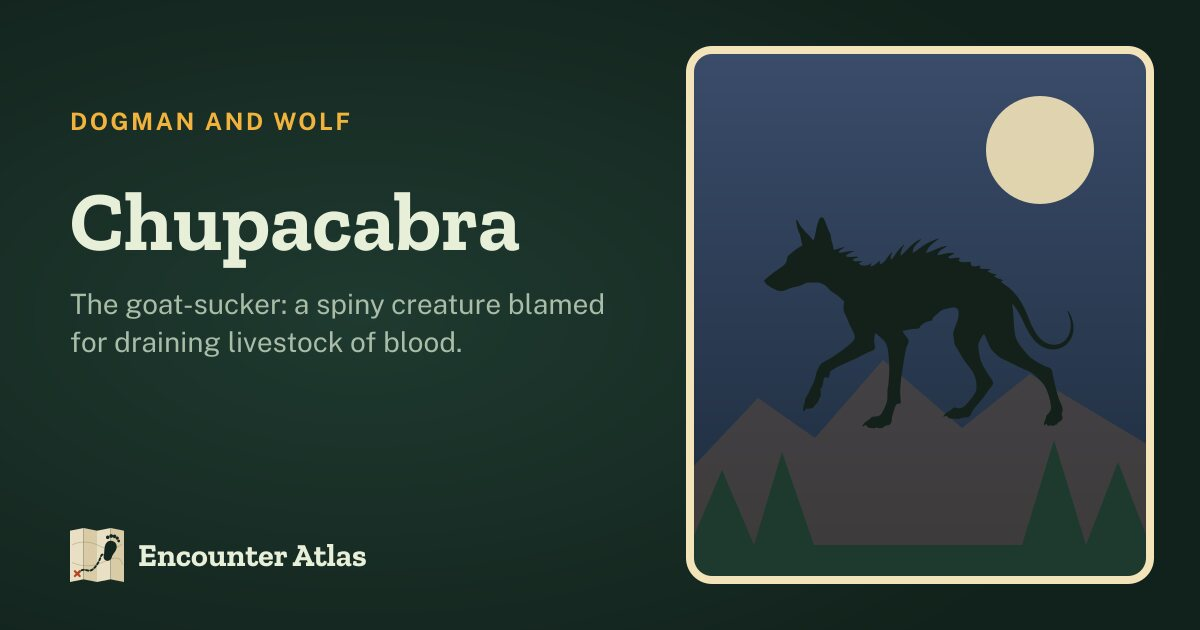
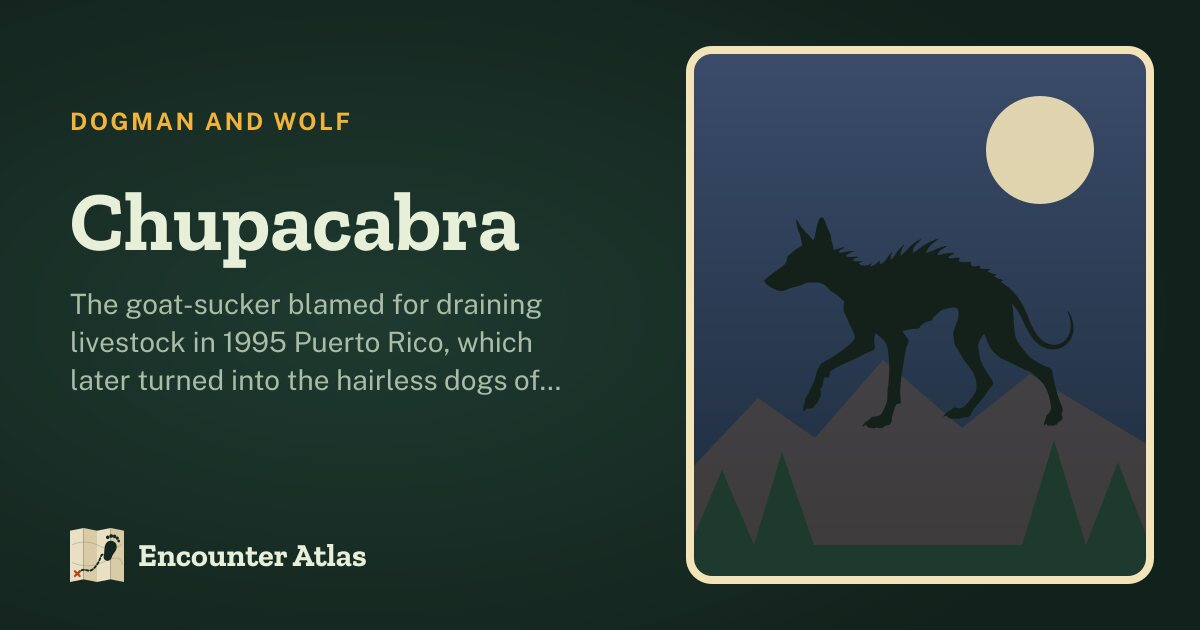
Wendigo and chupacabra: full hand-written pages in Mike's voice (history, cases, FAQs)

Changed region(s): [[0.0617, 0.4524, 0.4933, 0.6333]]

diff --git a/site/sw.js b/site/sw.js
@@ -2,7 +2,7 @@
 // 2.5 s) the last saved copy shows instead, and offline falls back to it too,
 // static files and map data cache-first. Map tiles are left to the browser cache.
 // Also: sighting-alert notifications (push), and waking the report form when a report queued with no signal can go.
-const V = 'ea-v95';
+const V = 'ea-v96';
 const BASE = new URL(self.registration.scope).pathname.replace(/\/$/, '');
 self.addEventListener('install', (e) => {
   e.waitUntil(caches.open(V).then((c) => c.addAll([BASE + '/', BASE + '/map/', BASE + '/near-me/', BASE + '/report/', BASE + '/static/site.css', BASE + '/static/map.js',
